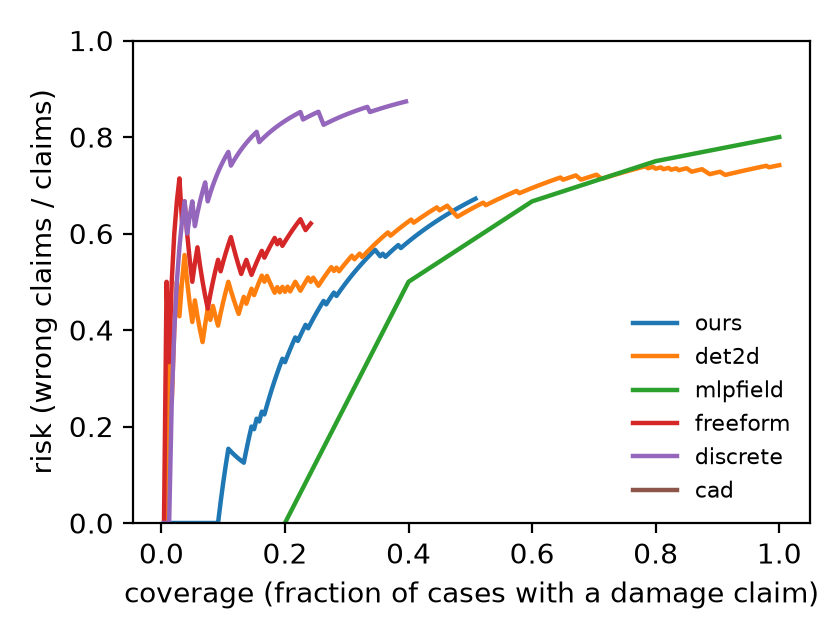
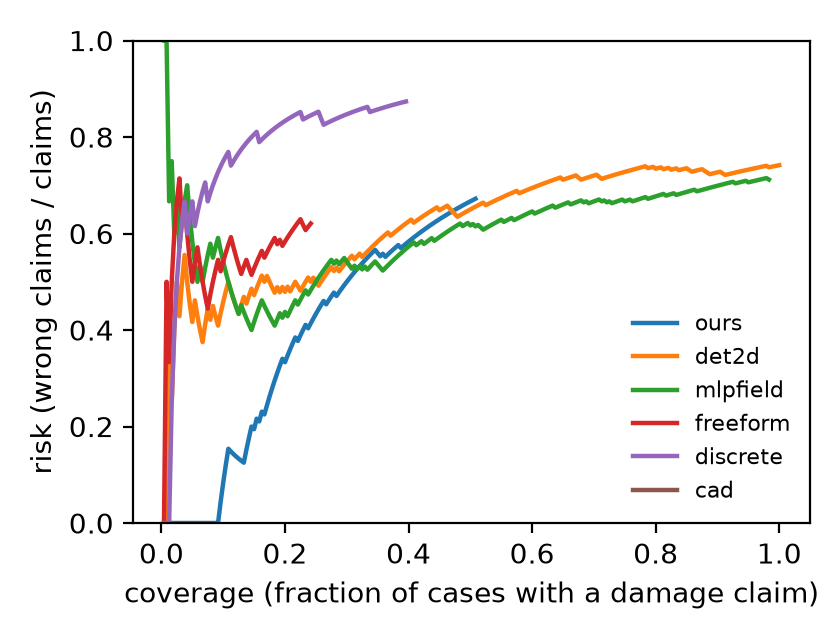
Auto-update results (interim)

diff --git a/results.html b/results.html
@@ -6,7 +6,7 @@
 <link rel="stylesheet" href="styles.css">
 <style>main.res{max-width:1100px;margin:0 auto;padding:32px 16px 64px;display:grid;gap:18px} main.res small{color:var(--muted)}</style>
 </head><body><main class="res">
-<span class="eyebrow">BladeDelta results · 09 Oct 2026, 12:09 UTC</span>
+<span class="eyebrow">BladeDelta results · 09 Oct 2026, 13:14 UTC</span>
 <h1>Sealed-test results <span class="chip partial">updating automatically</span></h1>
 <p>This page is rebuilt automatically from the experiment outputs. The test set is 240 cases on 30 blade shapes never used
 for development; the method and its threshold were locked before any test image existed. Brackets are 95% intervals,
@@ -23,7 +23,7 @@ resampling whole blades. <a href="index.html">← Back to the main page</a></p>
 15%. Recall on visible dents drops from 84% to
 54%. Detected dents: median depth error 0.030 mm,
 centre error 0.13 mm.</p></div>
-<h2>Where each phase is</h2><div class="tablewrap"><table><thead><tr><th>Phase</th><th>Status</th></tr></thead><tbody><tr><td>Rotor37 sealed test: ours + 3 baselines</td><td><span class="chip done">done</span></td></tr><tr><td>View study: 4 and 7 cameras</td><td><span class="chip done">done</span></td></tr><tr><td>Final report, tables, paper PDF</td><td><span class="chip done">done</span></td></tr><tr><td>Baseline: 2D detector lifted to 3D</td><td><span class="chip done">done</span></td></tr><tr><td>Baseline: MLP deformation field</td><td><span class="chip partial">running</span></td></tr><tr><td>Ablation: fixed grid of starts (4 and 16)</td><td><span class="chip partial">running</span></td></tr><tr><td>CAD6: render 456 cases on your 6 blades</td><td><span class="chip done">done</span></td></tr><tr><td>CAD6: ours + all baselines</td><td><span class="chip partial">running</span></td></tr><tr><td>CAD6: ablations (48 cases)</td><td><span class="chip partial">running</span></td></tr><tr><td>v2: pre-registered selection on dev (stopped: no gain)</td><td><span class="chip done">done</span></td></tr><tr><td>v1.1 (camera-check fix): calibrate and freeze</td><td><span class="chip done">done</span></td></tr><tr><td>v1.1 on held-out CAD6 blades 3-6, and on second sealed test</td><td><span class="chip partial">running</span></td></tr><tr><td>Physical capture (2x print of CAD6 blade 4/5)</td><td><span class="chip paused">when available</span></td></tr></tbody></table></div>
+<h2>Where each phase is</h2><div class="tablewrap"><table><thead><tr><th>Phase</th><th>Status</th></tr></thead><tbody><tr><td>Rotor37 sealed test: ours + 3 baselines</td><td><span class="chip done">done</span></td></tr><tr><td>View study: 4 and 7 cameras</td><td><span class="chip done">done</span></td></tr><tr><td>Final report, tables, paper PDF</td><td><span class="chip done">done</span></td></tr><tr><td>Baseline: 2D detector lifted to 3D</td><td><span class="chip done">done</span></td></tr><tr><td>Baseline: MLP deformation field</td><td><span class="chip done">done</span></td></tr><tr><td>Ablation: fixed grid of starts (4 and 16)</td><td><span class="chip partial">running</span></td></tr><tr><td>CAD6: render 456 cases on your 6 blades</td><td><span class="chip done">done</span></td></tr><tr><td>CAD6: ours + all baselines</td><td><span class="chip partial">running</span></td></tr><tr><td>CAD6: ablations (48 cases)</td><td><span class="chip partial">running</span></td></tr><tr><td>v2: pre-registered selection on dev (stopped: no gain)</td><td><span class="chip done">done</span></td></tr><tr><td>v1.1 (camera-check fix): calibrate and freeze</td><td><span class="chip done">done</span></td></tr><tr><td>v1.1 on held-out CAD6 blades 3-6, and on second sealed test</td><td><span class="chip partial">running</span></td></tr><tr><td>Physical capture (2x print of CAD6 blade 4/5)</td><td><span class="chip paused">when available</span></td></tr></tbody></table></div>
 <h2>Results at a glance</h2><figure><img src="img/results/dashboard.png" alt="Results dashboard"><figcaption>A: every method on the sealed test. B: the same fits with and without the evidence test. C: risk vs. coverage. D: ablations. E: our method under each capture condition.</figcaption></figure>
 <h2>Latest findings</h2><figure><img src="img/results/findings.png" alt="Latest findings">
 <figcaption><b>A.</b> View study on the same 120 test cases: with 7 cameras the method locates 22 dents instead of 8 and false alarms
@@ -82,14 +82,14 @@ v1.1 is best on separation, location, false alarms and hidden-dent abstention. T
 photo's outline and the mesh outline disagree (red: only in the photo; blue: only in the mesh). Left: your blade 3. Right: a Rotor37 blade.
 The disagreements are small, but on your blades they are enough to pull the camera check off by about 0.3&deg;.</figcaption></figure>
 <h2>All methods on the sealed test</h2>
-<div class="tablewrap"><table><thead><tr><th>Method</th><th>Separation (AUROC)</th><th>Visible dents found</th><th>…in the right place</th><th>False alarms</th><th>Hidden dents: abstains</th></tr></thead><tbody><tr><td><b>Ours (evidence-bounded)</b></td><td>0.82 <small>[0.71–0.90]</small></td><td>54% <small>[39–68]</small></td><td>54% <small>[39–68]</small></td><td>10% <small>[4–17]</small></td><td>85% <small>[77–91]</small></td></tr><tr><td><b>Ours without the evidence test</b></td><td>0.82 <small>[0.71–0.90]</small></td><td>84% <small>[68–95]</small></td><td>70% <small>[56–84]</small></td><td>32% <small>[21–43]</small></td><td>45% <small>[36–54]</small></td></tr><tr><td><b>2D detector lifted to 3D</b></td><td>0.71 <small>[0.63–0.80]</small></td><td>24% <small>[12–40]</small></td><td>16% <small>[5–30]</small></td><td>4% <small>[1–9]</small></td><td>96% <small>[93–99]</small></td></tr><tr><td><b>MLP deformation field (CADSplat-style)</b></td><td>1.00 <small>[1.00–1.00]</small></td><td>0% <small>[0–0]</small></td><td>0% <small>[0–0]</small></td><td>0% <small>[0–0]</small></td><td>100% <small>[100–100]</small></td></tr><tr><td><b>Free-form field (per vertex)</b></td><td>0.63 <small>[0.54–0.70]</small></td><td>14% <small>[4–24]</small></td><td>11% <small>[3–20]</small></td><td>4% <small>[1–9]</small></td><td>99% <small>[97–100]</small></td></tr><tr><td><b>Discrete search (earlier method)</b></td><td>0.53 <small>[0.43–0.65]</small></td><td>5% <small>[0–13]</small></td><td>5% <small>[0–13]</small></td><td>6% <small>[1–10]</small></td><td>98% <small>[95–100]</small></td></tr><tr><td><b>Unchanged CAD (never reports)</b></td><td>0.50 <small>[0.50–0.50]</small></td><td>0% <small>[0–0]</small></td><td>0% <small>[0–0]</small></td><td>0% <small>[0–0]</small></td><td>100% <small>[100–100]</small></td></tr></tbody></table></div>
+<div class="tablewrap"><table><thead><tr><th>Method</th><th>Separation (AUROC)</th><th>Visible dents found</th><th>…in the right place</th><th>False alarms</th><th>Hidden dents: abstains</th></tr></thead><tbody><tr><td><b>Ours (evidence-bounded)</b></td><td>0.82 <small>[0.71–0.90]</small></td><td>54% <small>[39–68]</small></td><td>54% <small>[39–68]</small></td><td>10% <small>[4–17]</small></td><td>85% <small>[77–91]</small></td></tr><tr><td><b>Ours without the evidence test</b></td><td>0.82 <small>[0.71–0.90]</small></td><td>84% <small>[68–95]</small></td><td>70% <small>[56–84]</small></td><td>32% <small>[21–43]</small></td><td>45% <small>[36–54]</small></td></tr><tr><td><b>2D detector lifted to 3D</b></td><td>0.71 <small>[0.63–0.80]</small></td><td>24% <small>[12–40]</small></td><td>16% <small>[5–30]</small></td><td>4% <small>[1–9]</small></td><td>96% <small>[93–99]</small></td></tr><tr><td><b>MLP deformation field (CADSplat-style)</b></td><td>0.74 <small>[0.65–0.81]</small></td><td>16% <small>[6–29]</small></td><td>11% <small>[3–22]</small></td><td>6% <small>[1–10]</small></td><td>100% <small>[100–100]</small></td></tr><tr><td><b>Free-form field (per vertex)</b></td><td>0.63 <small>[0.54–0.70]</small></td><td>14% <small>[4–24]</small></td><td>11% <small>[3–20]</small></td><td>4% <small>[1–9]</small></td><td>99% <small>[97–100]</small></td></tr><tr><td><b>Discrete search (earlier method)</b></td><td>0.53 <small>[0.43–0.65]</small></td><td>5% <small>[0–13]</small></td><td>5% <small>[0–13]</small></td><td>6% <small>[1–10]</small></td><td>98% <small>[95–100]</small></td></tr><tr><td><b>Unchanged CAD (never reports)</b></td><td>0.50 <small>[0.50–0.50]</small></td><td>0% <small>[0–0]</small></td><td>0% <small>[0–0]</small></td><td>0% <small>[0–0]</small></td><td>100% <small>[100–100]</small></td></tr></tbody></table></div>
 <h3>Ours, by capture condition</h3><div class="tablewrap"><table><thead><tr><th>Capture</th><th>Visible dents found</th><th>False alarms</th></tr></thead><tbody><tr><td>nominal</td><td>33%</td><td>10%</td></tr><tr><td>camera</td><td>60%</td><td>14%</td></tr><tr><td>light</td><td>78%</td><td>0%</td></tr><tr><td>both</td><td>44%</td><td>15%</td></tr></tbody></table></div>
 <figure><img src="img/results/cad6_blades.png" alt="Six CAD blades"></figure>
 <h2>New blades: your six real blade CAD models (456 of 456 cases so far)</h2>
 <p>Six real blade designs with platforms and dovetail roots (33–88 mm), imported from STEP. Dents use real sizes
 (0.1–1.0 mm deep, 1–5 mm radius). Nothing was retrained or re-tuned: the method, its appearance model (trained only on
 Rotor37) and its threshold are the frozen ones, so this measures how well it transfers to new blade designs.</p>
-<div class="tablewrap"><table><thead><tr><th>Method</th><th>Separation (AUROC)</th><th>Visible dents found</th><th>…in the right place</th><th>False alarms</th><th>Hidden dents: abstains</th></tr></thead><tbody><tr><td><b>Ours (evidence-bounded)</b></td><td>0.74 <small>[0.67–0.84]</small></td><td>94% <small>[89–98]</small></td><td>70% <small>[60–81]</small></td><td>67% <small>[36–97]</small></td><td>33% <small>[3–67]</small></td></tr><tr><td><b>Ours without the evidence test</b></td><td>0.74 <small>[0.67–0.84]</small></td><td>97% <small>[94–99]</small></td><td>73% <small>[61–84]</small></td><td>77% <small>[53–99]</small></td><td>27% <small>[2–58]</small></td></tr><tr><td><b>Free-form field (per vertex)</b></td><td>0.60 <small>[0.56–0.66]</small></td><td>61% <small>[36–84]</small></td><td>37% <small>[21–53]</small></td><td>39% <small>[20–58]</small></td><td>64% <small>[48–82]</small></td></tr><tr><td><b>Discrete search (earlier method)</b></td><td>0.65 <small>[0.58–0.72]</small></td><td>16% <small>[12–18]</small></td><td>13% <small>[10–17]</small></td><td>4% <small>[0–10]</small></td><td>97% <small>[94–100]</small></td></tr><tr><td><b>Unchanged CAD (never reports)</b></td><td>0.50 <small>[0.50–0.50]</small></td><td>0% <small>[0–0]</small></td><td>0% <small>[0–0]</small></td><td>0% <small>[0–0]</small></td><td>100% <small>[100–100]</small></td></tr></tbody></table></div>
+<div class="tablewrap"><table><thead><tr><th>Method</th><th>Separation (AUROC)</th><th>Visible dents found</th><th>…in the right place</th><th>False alarms</th><th>Hidden dents: abstains</th></tr></thead><tbody><tr><td><b>Ours (evidence-bounded)</b></td><td>0.74 <small>[0.67–0.84]</small></td><td>94% <small>[89–98]</small></td><td>70% <small>[60–81]</small></td><td>67% <small>[36–97]</small></td><td>33% <small>[3–67]</small></td></tr><tr><td><b>Ours without the evidence test</b></td><td>0.74 <small>[0.67–0.84]</small></td><td>97% <small>[94–99]</small></td><td>73% <small>[61–84]</small></td><td>77% <small>[53–99]</small></td><td>27% <small>[2–58]</small></td></tr><tr><td><b>2D detector lifted to 3D</b></td><td>0.86 <small>[0.83–0.89]</small></td><td>42% <small>[35–49]</small></td><td>36% <small>[30–42]</small></td><td>6% <small>[3–8]</small></td><td>100% <small>[100–100]</small></td></tr><tr><td><b>Free-form field (per vertex)</b></td><td>0.60 <small>[0.56–0.66]</small></td><td>61% <small>[36–84]</small></td><td>37% <small>[21–53]</small></td><td>39% <small>[20–58]</small></td><td>64% <small>[48–82]</small></td></tr><tr><td><b>Discrete search (earlier method)</b></td><td>0.65 <small>[0.58–0.72]</small></td><td>16% <small>[12–18]</small></td><td>13% <small>[10–17]</small></td><td>4% <small>[0–10]</small></td><td>97% <small>[94–100]</small></td></tr><tr><td><b>Unchanged CAD (never reports)</b></td><td>0.50 <small>[0.50–0.50]</small></td><td>0% <small>[0–0]</small></td><td>0% <small>[0–0]</small></td><td>0% <small>[0–0]</small></td><td>100% <small>[100–100]</small></td></tr></tbody></table></div>
 <h3>Does it depend on blade size?</h3><ul><li>Separation (AUROC): 0.74 on CAD6 vs 0.82 on the Rotor37 sealed test (transfer gap 0.08).</li><li>Visible dents found 94%, false alarms 67%, hidden dents abstained 33%.</li><li>Best blade 1 (24 mm), worst blade 3 (31 mm).</li><li>False alarms by blade, smallest to largest: 100%, 100%, 100%, 82%, 6%, 15%; Spearman ρ(blade size, false alarms) = -0.88 (p = 0.02).</li><li>Blade size vs. dents found, across 6 blades: Spearman ρ = -0.93 (p = 0.01; only 6 blades, so weak evidence).</li><li>Smaller blades (≤ median span) found 99% vs larger 88%. The same dent in mm is relatively larger on a small blade, so we also check depth relative to the blade: ρ(found, relative depth) = 0.10, ρ(found, depth in mm) = 0.02.</li><li>Found rate by relative-depth tertile (shallow → deep): 92%, 92%, 97%.</li><li>With a threshold recalibrated leave-one-blade-out on CAD6 negatives: found 13%, false alarms 4%.</li><li>Recommended blade for the physical capture: blade 5 (better transfer of blades 4 and 5).</li></ul>
 <div class="tablewrap"><table><thead><tr><th>Blade</th><th>Airfoil span</th><th>Cases</th><th>Visible dents</th><th>AUROC</th><th>Found</th><th>False alarms</th></tr></thead><tbody><tr><td>1</td><td>24 mm</td><td>76</td><td>31</td><td>0.98</td><td>100%</td><td>100%</td></tr><tr><td>2</td><td>26 mm</td><td>76</td><td>31</td><td>0.72</td><td>100%</td><td>100%</td></tr><tr><td>3</td><td>31 mm</td><td>76</td><td>31</td><td>0.64</td><td>97%</td><td>100%</td></tr><tr><td>4</td><td>40 mm</td><td>76</td><td>31</td><td>0.66</td><td>94%</td><td>82%</td></tr><tr><td>5</td><td>52 mm</td><td>76</td><td>31</td><td>0.93</td><td>84%</td><td>6%</td></tr><tr><td>6</td><td>70 mm</td><td>76</td><td>31</td><td>0.86</td><td>87%</td><td>15%</td></tr></tbody></table></div>
 <h2>Risk vs. coverage</h2><figure><img src="img/results/risk_coverage.png" alt="Risk-coverage curves" style="max-width:560px">

diff --git a/index.html b/index.html
@@ -58,7 +58,7 @@
       <span class="eyebrow">Latest updates · 7 October 2026, afternoon</span>
       <h2 id="h-latest">Latest results, in pictures</h2>
       <p><b>Final sealed-test numbers and every method side by side: <a href="results.html">live results page</a></b> (rebuilt automatically as experiments finish).</p>
-      <!--AUTO-STATUS-START--><div class="note"><strong>Automatic status · 09 Oct 2026, 12:09 UTC</strong><p>7 of 13 phases done. Sealed test: separation 0.82, 54% of visible dents found, 10% false alarms. <a href="results.html">Full results and charts →</a></p></div><!--AUTO-STATUS-END-->
+      <!--AUTO-STATUS-START--><div class="note"><strong>Automatic status · 09 Oct 2026, 13:15 UTC</strong><p>8 of 13 phases done. Sealed test: separation 0.82, 54% of visible dents found, 10% false alarms. <a href="results.html">Full results and charts →</a></p></div><!--AUTO-STATUS-END-->
       <div class="stats">
         <div class="stat"><span class="big">213 / 240</span><span class="lbl">sealed-test cases done (27 never-seen blades); numbers below are preliminary</span></div>
         <div class="stat"><span class="big">0.81</span><span class="lbl">separation of visible dents from healthy/stained blades (was 0.89 at 80 cases)</span></div>
